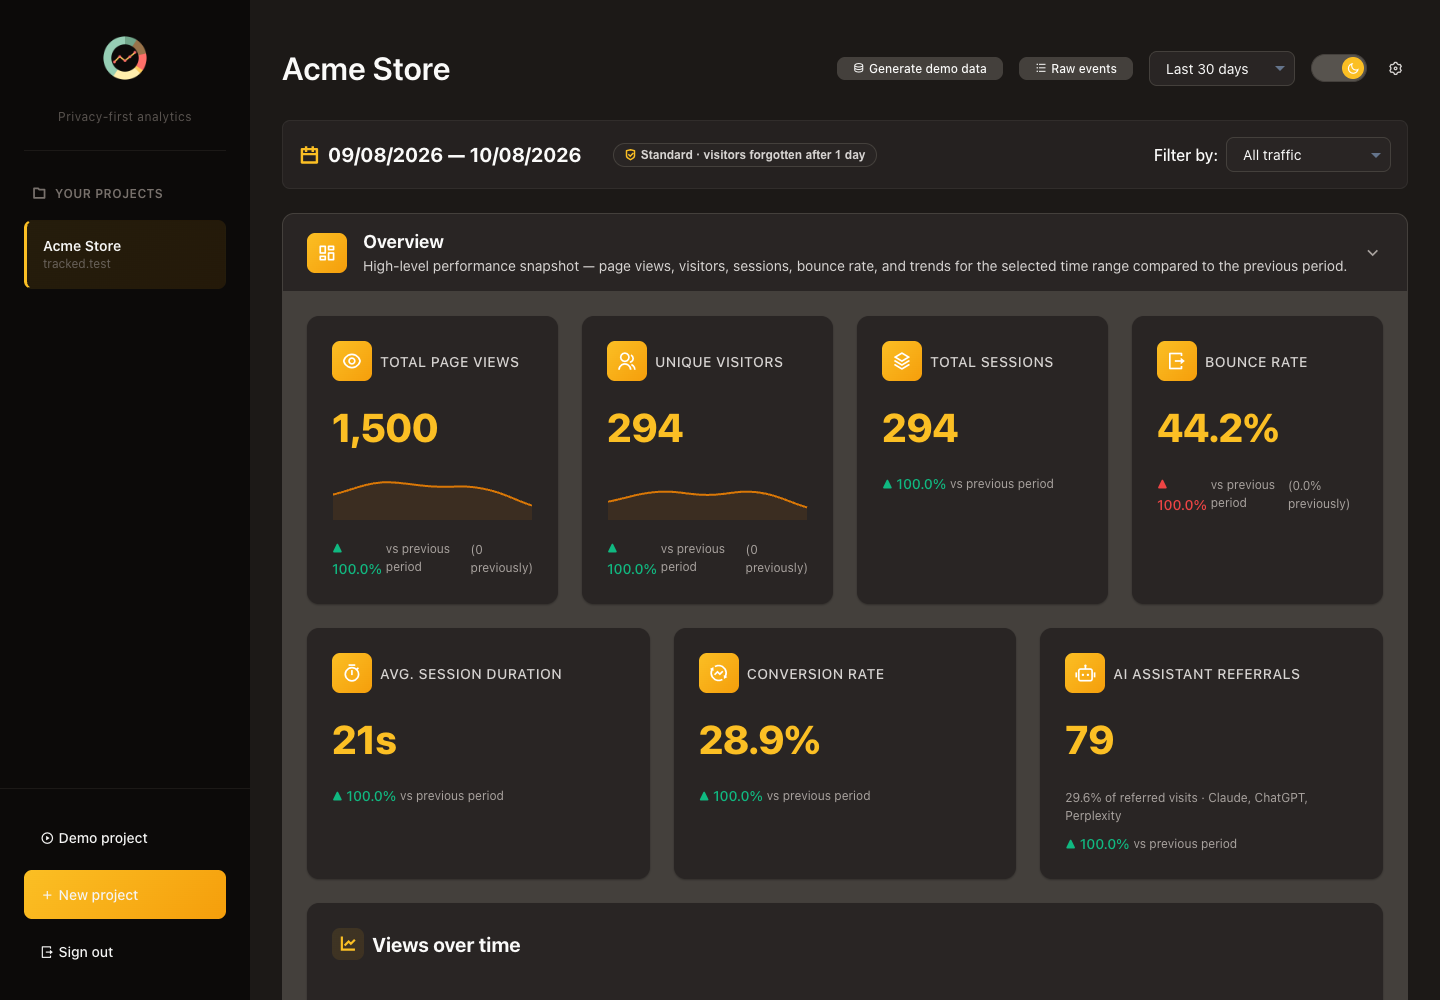
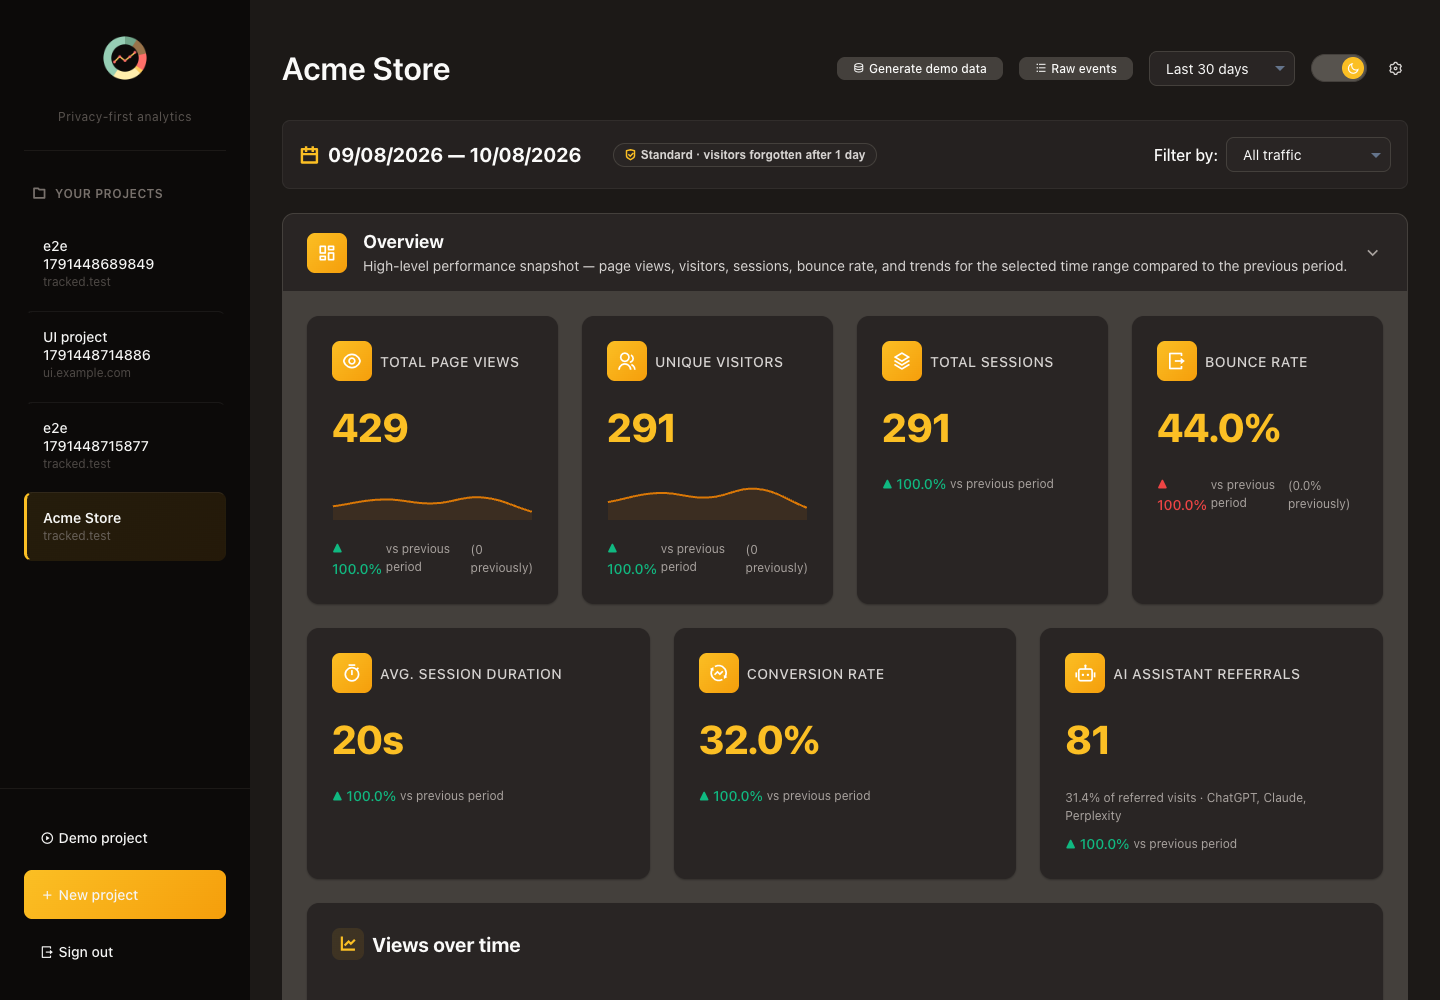
Count only page views; move to password4j; fix column defaults
- View-based metrics (totals, top pages, referrers, breakdowns, time
  series, heatmap, calendar, stats endpoint) count pageview events only;
  heartbeats, custom, scroll, outbound and download events were being
  counted as page views. Sessions, duration and bounce still use every
  event. Regression test added.
- jBCrypt (unmaintained) replaced by password4j 1.8.4 behind
  core/Passwords.kt. Verification reads cost and variant from the hash,
  so existing $2a$ hashes and htpasswd $2y$ hashes both verify.
- Five datetime columns use clientDefault instead of a literal default
  evaluated at startup; no more schema warnings on every boot.
- Stale test counts in docs/architecture.md and CONTRIBUTING.md fixed.

diff --git a/src/main/kotlin/se/onemanstudio/utils/DataAnalysisUtils.kt b/src/main/kotlin/se/onemanstudio/utils/DataAnalysisUtils.kt
@@ -88,7 +88,10 @@ fun generateTimeSeries(
 
     return transaction {
         val events = Events.selectAll()
-            .where { (Events.projectId eq id) and (Events.timestamp greaterEq start) and (Events.timestamp lessEq end) }
+            .where {
+                (Events.projectId eq id) and (Events.timestamp greaterEq start) and (Events.timestamp lessEq end) and
+                    (Events.eventType eq "pageview")
+            }
             .toList()
 
         // Group by time bucket
@@ -169,7 +172,10 @@ fun generateReport(id: UUID, start: LocalDateTime, end: LocalDateTime): ProjectR
             (Events.projectId eq id) and (Events.timestamp greaterEq start) and (Events.timestamp lessEq end)
         }
 
-        val totalViews = baseQuery.count()
+        // View-based metrics count page views only: heartbeats, custom, scroll, outbound and
+        // download events are not visits. Session metrics below still use every event.
+        val pageViews = baseQuery.copy().andWhere { Events.eventType eq "pageview" }
+        val totalViews = pageViews.count()
 
         val uniqueVisitors = baseQuery.copy()
             .adjustSelect { this.select(Events.visitorHash) }
@@ -178,7 +184,7 @@ fun generateReport(id: UUID, start: LocalDateTime, end: LocalDateTime): ProjectR
 
         fun getBreakdown(col: Column<*>): List<StatEntry> {
             val countCol = col.count()
-            return baseQuery.copy()
+            return pageViews.copy()
                 .adjustSelect { this.select(col, countCol) }
                 .groupBy(col)
                 .orderBy(countCol, SortOrder.DESC)
@@ -296,7 +302,7 @@ fun generateReport(id: UUID, start: LocalDateTime, end: LocalDateTime): ProjectR
 
         // Regions/states — include country for context
         val regionCountCol = Events.region.count()
-        val regions = baseQuery.copy()
+        val regions = pageViews.copy()
             .adjustSelect { this.select(Events.country, Events.region, regionCountCol) }
             .groupBy(Events.country, Events.region)
             .orderBy(regionCountCol, SortOrder.DESC)
@@ -325,7 +331,7 @@ fun generateReport(id: UUID, start: LocalDateTime, end: LocalDateTime): ProjectR
             referredVisits = referredVisits,
             countries = getBreakdown(Events.country),
             customEvents = customEvents,
-            lastVisits = baseQuery.copy()
+            lastVisits = pageViews.copy()
                 .orderBy(Events.timestamp, SortOrder.DESC)
                 .limit(10)
                 .map {
@@ -361,7 +367,7 @@ fun generateReport(id: UUID, start: LocalDateTime, end: LocalDateTime): ProjectR
 fun generateActivityHeatmap(projectId: UUID, cutoff: LocalDateTime): List<ActivityCell> {
     return transaction {
         val events = Events.selectAll()
-            .where { (Events.projectId eq projectId) and (Events.timestamp greaterEq cutoff) }
+            .where { (Events.projectId eq projectId) and (Events.timestamp greaterEq cutoff) and (Events.eventType eq "pageview") }
             .toList()
 
         // Group by day of week and hour
@@ -426,7 +432,7 @@ fun generateContributionCalendar(projectId: UUID): ContributionCalendar {
         val startDate = endDate.minusDays(365)
 
         val events = Events.selectAll()
-            .where { (Events.projectId eq projectId) and (Events.timestamp greaterEq startDate) }
+            .where { (Events.projectId eq projectId) and (Events.timestamp greaterEq startDate) and (Events.eventType eq "pageview") }
             .toList()
 
         // Group by date

diff --git a/src/test/kotlin/se/onemanstudio/integration/PrivacyRbacAndCacheTest.kt b/src/test/kotlin/se/onemanstudio/integration/PrivacyRbacAndCacheTest.kt
@@ -264,6 +264,33 @@ class PrivacyRbacAndCacheTest {
     }
 
     @Test
+    fun `page view counts exclude heartbeats, custom and scroll events everywhere`() = testApplication {
+        application { module() }
+        val admin = createAuthClient(); assertEquals(HttpStatusCode.OK, admin.login().status)
+        val (projectId, apiKey) = admin.createProject("views-${System.nanoTime()}")
+        val s = "abcdef0123456789abcdef0123456789"
+        for (body in listOf(
+            """{"path":"/home","sessionId":"$s","type":"pageview"}""",
+            """{"path":"/home","sessionId":"$s","type":"heartbeat"}""",
+            """{"path":"/home","sessionId":"$s","type":"heartbeat"}""",
+            """{"path":"/home","sessionId":"$s","type":"custom","eventName":"signup"}""",
+            """{"path":"/home","sessionId":"$s","type":"scroll","scrollDepth":50}""",
+        )) assertEquals(HttpStatusCode.Accepted, admin.collect(apiKey, body).status, body)
+
+        val stats = Json.parseToJsonElement(admin.get("/admin/projects/$projectId/stats").bodyAsText()).jsonObject
+        assertEquals(1L, stats["totalViews"]!!.jsonPrimitive.long, "stats endpoint")
+        assertEquals(1L, stats["topPages"]!!.jsonArray.first().jsonObject["count"]!!.jsonPrimitive.long)
+
+        val comparisonBody = admin.get("/admin/projects/$projectId/report/comparison?filter=7d").bodyAsText()
+        val comparison = Json.parseToJsonElement(comparisonBody).jsonObject
+        val report = comparison["current"]!!.jsonObject
+        assertEquals(1L, report["totalViews"]!!.jsonPrimitive.long, "report")
+        assertEquals(1L, report["topPages"]!!.jsonArray.first().jsonObject["value"]!!.jsonPrimitive.long)
+        assertEquals(1L, report["totalSessions"]!!.jsonPrimitive.long, "sessions still count every event")
+        assertEquals(1L, comparison["timeSeries"]!!.jsonArray.sumOf { it.jsonObject["views"]!!.jsonPrimitive.long }, "time series")
+    }
+
+    @Test
     fun `collect enforces the 2048 character limit on custom event properties`() = testApplication {
         application { module() }
         val admin = createAuthClient(); assertEquals(HttpStatusCode.OK, admin.login().status)

diff --git a/src/main/kotlin/se/onemanstudio/core/Security.kt b/src/main/kotlin/se/onemanstudio/core/Security.kt
@@ -13,7 +13,6 @@ import org.jetbrains.exposed.v1.core.*
 import org.jetbrains.exposed.v1.jdbc.*
 import org.jetbrains.exposed.v1.jdbc.transactions.transaction
 import se.onemanstudio.api.models.ApiError
-import org.mindrot.jbcrypt.BCrypt
 import se.onemanstudio.config.models.AppConfig
 import se.onemanstudio.core.models.LoginAttempt
 import se.onemanstudio.core.models.UserSession
@@ -76,7 +75,7 @@ fun verifyCredentials(username: String, password: String, config: AppConfig, log
         // DB-backed user found
         val storedHash = dbUser[Users.passwordHash]
         passwordMatches = try {
-            BCrypt.checkpw(password, storedHash)
+            Passwords.verify(password, storedHash)
         } catch (@Suppress("TooGenericExceptionCaught") e: Exception) {
             logger.error("Password verification error: ${e.message}")
             false
@@ -91,9 +90,8 @@ fun verifyCredentials(username: String, password: String, config: AppConfig, log
 
         logger.debug("Attempting fallback authentication for admin via .env config")
         passwordMatches = try {
-            if (config.security.adminPassword.startsWith("$2a$") ||
-                config.security.adminPassword.startsWith("$2b$")) {
-                BCrypt.checkpw(password, config.security.adminPassword)
+            if (Passwords.isBcryptHash(config.security.adminPassword)) {
+                Passwords.verify(password, config.security.adminPassword)
             } else {
                 logger.error("Admin password in config is not BCrypt-hashed.")
                 false

diff --git a/src/test/kotlin/se/onemanstudio/core/PasswordsTest.kt b/src/test/kotlin/se/onemanstudio/core/PasswordsTest.kt
@@ -1,0 +1,38 @@
+package se.onemanstudio.core
+
+import org.junit.Test
+import kotlin.test.assertFalse
+import kotlin.test.assertTrue
+
+class PasswordsTest {
+
+    @Test
+    fun `new hashes are 2a, cost 12, and verify`() {
+        val hash = Passwords.hash("correct horse battery staple")
+        assertTrue(hash.startsWith("\$2a\$12\$"), hash)
+        assertTrue(Passwords.verify("correct horse battery staple", hash))
+        assertFalse(Passwords.verify("correct horse battery stapler", hash))
+    }
+
+    @Test
+    fun `hashes produced by the previous library (jBCrypt, 2a) still verify`() {
+        val legacy = "\$2a\$10\$Ju8SUf4cckwLm1qy08D53eC.bspEBge.3TNvr9ctTVdNTupUZ5qSy"
+        assertTrue(Passwords.verify("Xss-check-123", legacy))
+        assertFalse(Passwords.verify("wrong", legacy))
+    }
+
+    @Test
+    fun `htpasswd-style 2y hashes verify now`() {
+        val htpasswd = "\$2y\$05\$LM2IGDuX.TiQ0vVKDDKevOkk7BmqTpO3fQT20wBoaBrxEIpCUdk4a"
+        assertTrue(Passwords.verify("Xss-check-123", htpasswd))
+        assertFalse(Passwords.verify("not-it", htpasswd))
+    }
+
+    @Test
+    fun `plain text is never treated as a hash and never verifies as one`() {
+        assertFalse(Passwords.isBcryptHash("hunter2"))
+        assertFalse(Passwords.isBcryptHash("\$2a\$notreally"))
+        assertTrue(Passwords.isBcryptHash("\$2b\$12\$abcdefghijklmnopqrstuu"))
+        assertFalse(Passwords.verify("hunter2", "hunter2"))
+    }
+}

diff --git a/src/main/kotlin/se/onemanstudio/core/Passwords.kt b/src/main/kotlin/se/onemanstudio/core/Passwords.kt
@@ -1,0 +1,31 @@
+package se.onemanstudio.core
+
+import com.password4j.BcryptFunction
+import com.password4j.Password
+import com.password4j.types.Bcrypt
+
+/**
+ * Password hashing behind one door (password4j, Apache-2.0).
+ *
+ * New hashes are BCrypt `$2a$` with cost 12, byte-compatible with the jBCrypt hashes
+ * already in databases and `.env` files. Verification accepts the `$2a$`, `$2b$` and
+ * `$2y$` variants, so hashes produced by Apache `htpasswd -B` work too.
+ */
+object Passwords {
+    private const val COST = 12
+    private val bcrypt = BcryptFunction.getInstance(Bcrypt.A, COST)
+    private val bcryptShape = Regex("^\\$2[abxy]\\$\\d{2}\\$")
+
+    fun hash(plain: String): String = Password.hash(plain).with(bcrypt).result
+
+    /**
+     * Cost and variant are read from the hash itself (`getInstanceFromHash`), so hashes of any
+     * cost or variant verify, not only the ones this object produces. `withBcrypt()` would use
+     * the library defaults instead and reject everything else.
+     */
+    fun verify(plain: String, hashed: String): Boolean =
+        isBcryptHash(hashed) && Password.check(plain, hashed).with(BcryptFunction.getInstanceFromHash(hashed))
+
+    /** True when the string looks like a BCrypt hash rather than a plain-text password. */
+    fun isBcryptHash(value: String): Boolean = bcryptShape.containsMatchIn(value)
+}

diff --git a/src/main/kotlin/se/onemanstudio/core/ServiceManager.kt b/src/main/kotlin/se/onemanstudio/core/ServiceManager.kt
@@ -93,14 +93,10 @@ object ServiceManager {
                 if (Users.selectAll().count() == 0L) {
                     // If the config password is already BCrypt-hashed, store it directly;
                     // otherwise hash it first (handles plain-text passwords in test/dev environments)
-                    val hashedPassword = if (config.security.adminPassword.startsWith("\$2a\$") ||
-                        config.security.adminPassword.startsWith("\$2b\$")) {
+                    val hashedPassword = if (Passwords.isBcryptHash(config.security.adminPassword)) {
                         config.security.adminPassword
                     } else {
-                        org.mindrot.jbcrypt.BCrypt.hashpw(
-                            config.security.adminPassword,
-                            org.mindrot.jbcrypt.BCrypt.gensalt(12)
-                        )
+                        Passwords.hash(config.security.adminPassword)
                     }
                     Users.insert {
                         it[id] = UUID.randomUUID()

diff --git a/src/main/kotlin/se/onemanstudio/routing/AdminProjectRouting.kt b/src/main/kotlin/se/onemanstudio/routing/AdminProjectRouting.kt
@@ -189,13 +189,14 @@ fun Route.adminProjectRoutes() {
 
         val stats = QueryCache.getOrCompute("$pid:stats") {
             transaction {
-                val totalViews = Events.selectAll().where { Events.projectId eq pid }.count()
+                val totalViews = Events.selectAll()
+                    .where { (Events.projectId eq pid) and (Events.eventType eq "pageview") }.count()
                 val uniqueVisitors = Events.select(Events.visitorHash)
                     .where { Events.projectId eq pid }
                     .withDistinct()
                     .count()
                 val topPages = Events.select(Events.path, Events.path.count())
-                    .where { Events.projectId eq pid }
+                    .where { (Events.projectId eq pid) and (Events.eventType eq "pageview") }
                     .groupBy(Events.path)
                     .orderBy(Events.path.count(), SortOrder.DESC)
                     .limit(5)

diff --git a/src/main/kotlin/se/onemanstudio/setup/SetupRouting.kt b/src/main/kotlin/se/onemanstudio/setup/SetupRouting.kt
@@ -8,7 +8,6 @@ import io.ktor.server.response.*
 import io.ktor.server.routing.*
 import kotlinx.serialization.json.buildJsonObject
 import kotlinx.serialization.json.put
-import org.mindrot.jbcrypt.BCrypt
 import se.onemanstudio.config.ConfigLoader
 import se.onemanstudio.config.ConfigurationException
 import se.onemanstudio.configureRouting
@@ -268,7 +267,7 @@ private fun buildEnvContent(config: SetupConfigDTO): String {
     lines.add("ADMIN_USERNAME=${config.adminUsername}")
 
     // Hash password with BCrypt before storing (rounds=12 for good security/performance balance)
-    val hashedPassword = BCrypt.hashpw(config.adminPassword, BCrypt.gensalt(12))
+    val hashedPassword = se.onemanstudio.core.Passwords.hash(config.adminPassword)
     lines.add("# Password is stored as BCrypt hash for security")
     lines.add("ADMIN_PASSWORD=${hashedPassword}")
 

diff --git a/src/main/kotlin/se/onemanstudio/db/Segments.kt b/src/main/kotlin/se/onemanstudio/db/Segments.kt
@@ -16,8 +16,8 @@ object Segments : Table("segments") {
     val name = varchar("name", 100)
     val description = varchar("description", 255).nullable()
     val filtersJson = text("filters_json") // JSON: [{field, operator, value, logic}]
-    val createdAt = datetime("created_at").default(LocalDateTime.now())
-    val updatedAt = datetime("updated_at").default(LocalDateTime.now())
+    val createdAt = datetime("created_at").clientDefault { LocalDateTime.now() }
+    val updatedAt = datetime("updated_at").clientDefault { LocalDateTime.now() }
 
     override val primaryKey = PrimaryKey(id)
 

diff --git a/src/main/kotlin/se/onemanstudio/db/Events.kt b/src/main/kotlin/se/onemanstudio/db/Events.kt
@@ -41,7 +41,7 @@ object Events : Table("events") {
     val country = varchar("country", 100).nullable()
     val city = varchar("city", 100).nullable()
     val duration = integer("duration").default(0) // Seconds spent
-    val timestamp = datetime("timestamp").default(LocalDateTime.now())
+    val timestamp = datetime("timestamp").clientDefault { LocalDateTime.now() }
     val browser = varchar("browser", 50).nullable()
     val os = varchar("os", 50).nullable()
     val device = varchar("device", 50).nullable()

diff --git a/src/main/kotlin/se/onemanstudio/routing/AuthRouting.kt b/src/main/kotlin/se/onemanstudio/routing/AuthRouting.kt
@@ -238,10 +238,7 @@ fun Route.authRoutes(authLimiter: RateLimiter) {
                 ApiError.unauthorized("Current password is incorrect"))
         }
 
-        val hashedPassword = org.mindrot.jbcrypt.BCrypt.hashpw(
-            body.newPassword,
-            org.mindrot.jbcrypt.BCrypt.gensalt(12)
-        )
+        val hashedPassword = se.onemanstudio.core.Passwords.hash(body.newPassword)
 
         // Update password in the Users table for the admin user
         transaction {

diff --git a/src/main/kotlin/se/onemanstudio/db/ConversionGoals.kt b/src/main/kotlin/se/onemanstudio/db/ConversionGoals.kt
@@ -13,7 +13,7 @@ object ConversionGoals : Table("conversion_goals") {
     val goalType = varchar("goal_type", 20) // "url" or "event"
     val matchValue = varchar("match_value", 512)
     val isActive = bool("is_active").default(true)
-    val createdAt = datetime("created_at").default(LocalDateTime.now())
+    val createdAt = datetime("created_at").clientDefault { LocalDateTime.now() }
 
     override val primaryKey = PrimaryKey(id)
 
